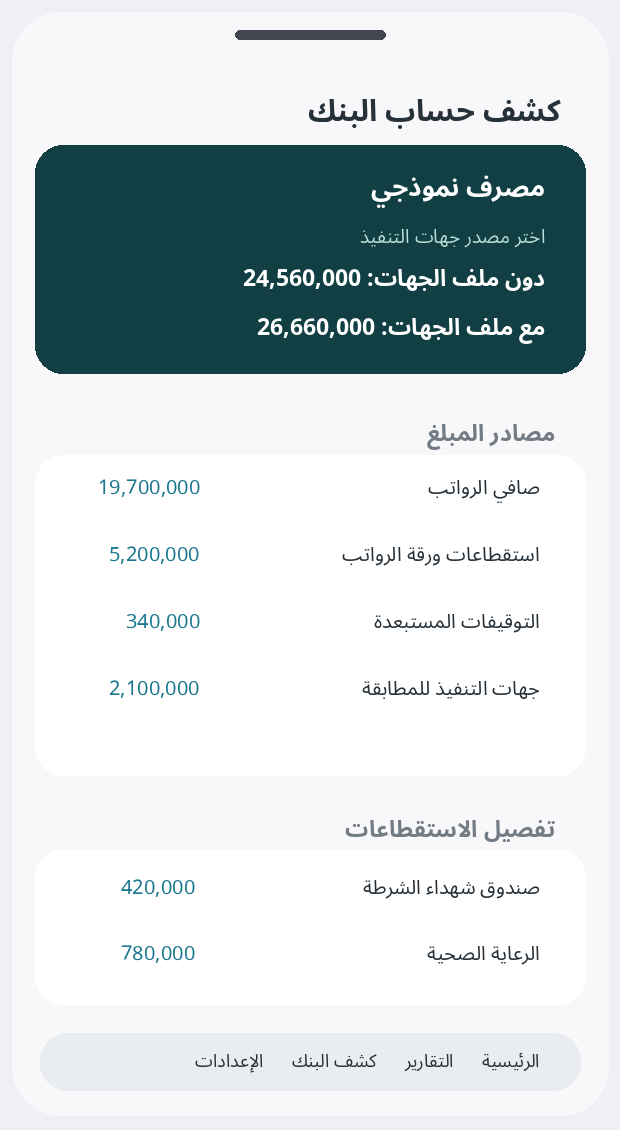
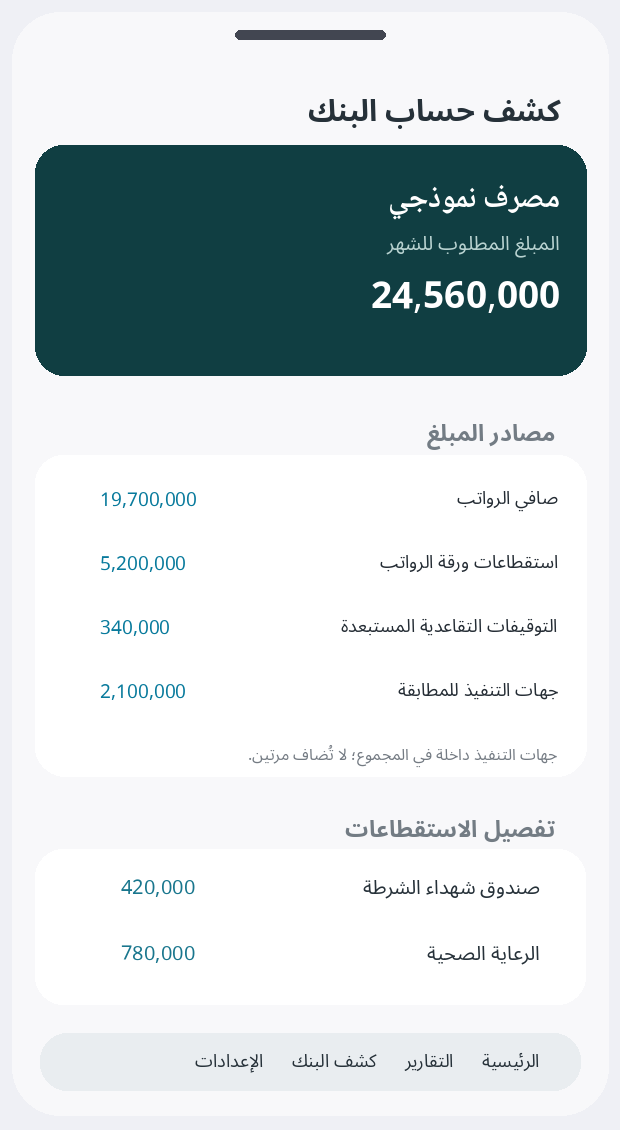
Count execution deductions once in bank statement
Use payroll net plus payroll deductions less retirement stoppages as the sole bank amount.

Show execution file totals only for reconciliation and remove the obsolete source setting.

diff --git a/SalaryApp/BankStatement.swift b/SalaryApp/BankStatement.swift
@@ -1,8 +1,7 @@
 import SwiftUI
 import SwiftData
 
-/// مصادر كشف حساب البنك للشهر. ملف الاستقطاعات يُعرض مستقلاً حتى لا يختلط
-/// بسطر «مجموع الاستقطاعات» القادم من ورقة الرواتب.
+/// ملف جهات التنفيذ داخل مجموع استقطاعات الرواتب؛ يُعرض للمطابقة فقط.
 nonisolated struct BankStatementSummary: Sendable {
     let month: String
     var payrollCount = 0
@@ -16,8 +15,7 @@ nonisolated struct BankStatementSummary: Sendable {
     var breakdown: [String: Double] = [:]
 
     var nonRetirementDeductions: Double { payrollDeductions - retirement }
-    var totalWithoutSeparateExecution: Double { netSalary + nonRetirementDeductions }
-    var totalWithSeparateExecution: Double { totalWithoutSeparateExecution + executionDeductions }
+    var bankTotal: Double { netSalary + nonRetirementDeductions }
 }
 
 @ModelActor
@@ -73,32 +71,17 @@ actor BankStatementEngine {
     }
 }
 
-/// طريقة إضافة ملف جهات التنفيذ إلى مجموع ورقة الرواتب.
-enum BankExecutionRule: String, CaseIterable, Identifiable {
-    case review, included, separate
-    var id: String { rawValue }
-    var title: String {
-        switch self {
-        case .review: tr("أحتاج مطابقة المصدر", "Source needs review")
-        case .included: tr("ضمن مجموع الاستقطاعات", "Included in payroll deductions")
-        case .separate: tr("يُضاف من ملف منفصل", "Added from a separate file")
-        }
-    }
-}
-
 struct BankStatementView: View {
     @Query(sort: [SortDescriptor(\PayrollMonth.sortKey, order: .reverse), SortDescriptor(\PayrollMonth.importedAt, order: .reverse)])
     private var months: [PayrollMonth]
     @AppStorage("bankStatementMonth") private var selectedMonth = ""
     @AppStorage("bankStatementAccountName") private var accountName = ""
     @AppStorage("bankStatementIBAN") private var iban = ""
-    @AppStorage("bankStatementExecutionRule") private var ruleRaw = BankExecutionRule.review.rawValue
     @State private var summary: BankStatementSummary?
     @State private var loadError: String?
     @State private var showSettings = false
 
     private var month: PayrollMonth? { months.first { $0.name == selectedMonth } ?? months.first }
-    private var rule: BankExecutionRule { BankExecutionRule(rawValue: ruleRaw) ?? .review }
     private var loadKey: String { "\(month?.name ?? "")|\(month?.importedAt.timeIntervalSince1970 ?? 0)" }
 
     var body: some View {
@@ -109,21 +92,11 @@ struct BankStatementView: View {
                         VStack(alignment: .leading, spacing: 10) {
                             Text(accountName.isEmpty ? tr("حساب البنك", "Bank account") : accountName)
                                 .font(.headline).foregroundStyle(.white)
-                            Text(rule == .review ? tr("اختر مصدر جهات التنفيذ لاعتماد المبلغ", "Choose the execution source to confirm the amount")
-                                                  : tr("المبلغ المطلوب للشهر", "Monthly amount"))
+                            Text(tr("المبلغ المطلوب للشهر", "Monthly amount"))
                                 .font(.caption).foregroundStyle(.white.opacity(0.8))
-                            if rule == .review {
-                                Text(tr("دون إضافة ملف الجهات: \(Money.format(summary.totalWithoutSeparateExecution))",
-                                        "Without separate execution file: \(Money.format(summary.totalWithoutSeparateExecution))"))
-                                    .font(.subheadline.weight(.semibold)).foregroundStyle(.white)
-                                Text(tr("مع إضافة ملف الجهات: \(Money.format(summary.totalWithSeparateExecution))",
-                                        "With separate execution file: \(Money.format(summary.totalWithSeparateExecution))"))
-                                    .font(.subheadline.weight(.semibold)).foregroundStyle(.white)
-                            } else {
-                                Text(Money.format(rule == .separate ? summary.totalWithSeparateExecution : summary.totalWithoutSeparateExecution))
-                                    .font(.system(size: 30, weight: .bold, design: .rounded))
-                                    .monospacedDigit().foregroundStyle(.white)
-                            }
+                            Text(Money.format(summary.bankTotal))
+                                .font(.system(size: 30, weight: .bold, design: .rounded))
+                                .monospacedDigit().foregroundStyle(.white)
                             if !iban.isEmpty { Text(iban).font(.footnote.monospaced()).foregroundStyle(.white.opacity(0.8)).privacySensitive() }
                         }
                         .frame(maxWidth: .infinity, alignment: .leading)
@@ -137,11 +110,8 @@ struct BankStatementView: View {
                         LabeledContent(tr("استقطاعات ورقة الرواتب", "Payroll deductions"), value: Money.format(summary.payrollDeductions))
                         LabeledContent(tr("التوقيفات التقاعدية المستبعدة", "Excluded retirement deductions"), value: Money.format(summary.retirement))
                         LabeledContent(tr("استقطاعات جهات التنفيذ", "Execution deductions"), value: Money.format(summary.executionDeductions))
-                        Text(rule == .review
-                             ? tr("حدد هل مبالغ ملف الجهات داخلة في مجموع ورقة الرواتب قبل اعتماد الكشف.", "Check whether execution records are already included in payroll before confirming the statement.")
-                             : rule == .included
-                             ? tr("جهات التنفيذ معروضة للمطابقة، ولا تُضاف مرتين إلى المجموع.", "Execution deductions are shown for reconciliation and aren't added twice.")
-                             : tr("جهات التنفيذ من الملف المنفصل مضافة إلى المجموع.", "Execution deductions from the separate file are added to the total."))
+                        Text(tr("جهات التنفيذ ضمن مجموع الاستقطاعات؛ مبلغ الملف معروض للمطابقة فقط ولا يُضاف مرة ثانية.",
+                                "Execution deductions are included in payroll deductions; the file amount is shown only for reconciliation."))
                             .font(.footnote).foregroundStyle(.secondary)
                     }
                     Section(tr("تفصيل الاستقطاعات", "Deduction breakdown")) {
@@ -191,13 +161,9 @@ struct BankStatementView: View {
                             TextField(tr("اسم الحساب", "Account name"), text: $accountName)
                             TextField("IBAN", text: $iban).textInputAutocapitalization(.characters)
                         }
-                        Section(tr("استقطاعات جهات التنفيذ", "Execution deductions")) {
-                            Picker(tr("طريقة الاحتساب", "Calculation rule"), selection: $ruleRaw) {
-                                ForEach(BankExecutionRule.allCases) { option in Text(option.title).tag(option.rawValue) }
-                            }
-                        } footer: {
-                            Text(tr("الصافي ومجموع الاستقطاعات والتوقيفات التقاعدية من ورقة الرواتب. ملف جهات التنفيذ يُضاف فقط إذا لم تكن مبالغه ضمن مجموع الاستقطاعات.",
-                                    "Net pay, deduction total and retirement deductions come from payroll. Add execution records only if they aren't included in the payroll deduction total."))
+                        Section(tr("طريقة الاحتساب", "Calculation")) {
+                            Text(tr("صافي الرواتب + مجموع الاستقطاعات − التوقيفات التقاعدية. جهات التنفيذ داخلة في مجموع الاستقطاعات.",
+                                    "Net payroll + payroll deductions − retirement deductions. Execution deductions are already included."))
                         }
                     }
                     .navigationTitle(tr("مصادر كشف البنك", "Bank statement sources"))
@@ -226,7 +192,6 @@ struct BankStatementView: View {
             }
             .onChange(of: accountName) { BackupManager.shared.markChanged() }
             .onChange(of: iban) { BackupManager.shared.markChanged() }
-            .onChange(of: ruleRaw) { BackupManager.shared.markChanged() }
         }
     }
 }

diff --git a/docs/design/bank-statement.html b/docs/design/bank-statement.html
@@ -1,0 +1,3 @@
+<!doctype html><html lang="ar" dir="rtl"><meta charset="utf-8"><style>
+*{box-sizing:border-box}body{margin:0;background:#f2f2f7;color:#242c34;font-family:Arial,sans-serif;width:620px;height:1130px;padding:14px 35px}main{background:#f8f8fb;border-radius:48px;height:1102px;padding:42px 0 22px}.handle{width:149px;height:9px;background:#363941;border-radius:20px;margin:0 auto 30px}h1{font-size:33px;margin:0 24px 18px}h2{font-size:23px;color:#818991;margin:36px 30px 7px}.hero{background:#103e42;color:white;border-radius:30px;padding:29px 34px;height:194px}.hero .name{font-size:28px;font-weight:bold}.hero .label{font-size:19px;color:#b8d2d0;margin-top:20px}.hero .amount{font-size:37px;font-weight:bold;margin-top:6px;direction:ltr;text-align:right}.card{background:white;border-radius:30px;padding:20px 24px}.row{display:flex;justify-content:space-between;align-items:center;min-height:66px;font-size:19px}.row span:last-child{color:#087a9c;direction:ltr}.note{color:#747b83;font-size:16px;line-height:1.5;margin:10px 4px}.tabs{display:flex;justify-content:space-around;background:#e8ecef;border-radius:40px;margin:35px 5px 0;padding:17px 5px;font-size:17px}
+</style><main><div class="handle"></div><h1>كشف حساب البنك</h1><div class="hero"><div class="name">مصرف نموذجي</div><div class="label">المبلغ المطلوب للشهر</div><div class="amount">24,560,000</div></div><h2>مصادر المبلغ</h2><div class="card"><div class="row"><span>صافي الرواتب</span><span>19,700,000</span></div><div class="row"><span>مجموع الاستقطاعات</span><span>5,200,000</span></div><div class="row"><span>التوقيفات التقاعدية المستبعدة</span><span>340,000</span></div><div class="row"><span>جهات التنفيذ للمطابقة</span><span>2,100,000</span></div><div class="note">مبلغ جهات التنفيذ داخل مجموع الاستقطاعات ولا يُضاف مرة ثانية.</div></div><h2>تفصيل الاستقطاعات</h2><div class="card"><div class="row"><span>صندوق شهداء الشرطة</span><span>420,000</span></div><div class="row"><span>الرعاية الصحية</span><span>780,000</span></div></div><div class="tabs"><span>الرئيسية</span><span>التقارير</span><span>كشف البنك</span><span>الإعدادات</span></div></main></html>

diff --git a/SalaryApp/Backup.swift b/SalaryApp/Backup.swift
@@ -29,7 +29,7 @@ nonisolated enum BackupFormat {
 
     /// إعدادات تُحفظ مع البيانات (بدون قفل Face ID).
     static let settingsKeys = ["staffCount", "staffImportedAt", "staffFileName", "staffStatuses", "unifiedRecentSearches",
-                               "bankStatementMonth", "bankStatementAccountName", "bankStatementIBAN", "bankStatementExecutionRule",
+                               "bankStatementMonth", "bankStatementAccountName", "bankStatementIBAN",
                                ReportSheet.headerKey, AppSettings.languageKey, AppSettings.appearanceKey, AppSettings.numeralsKey, AppSettings.textSizeKey]
 
     /// اسم ثابت: كل نسخة جديدة تحلّ محل السابقة (تاريخ النسخة محفوظ داخلها).
